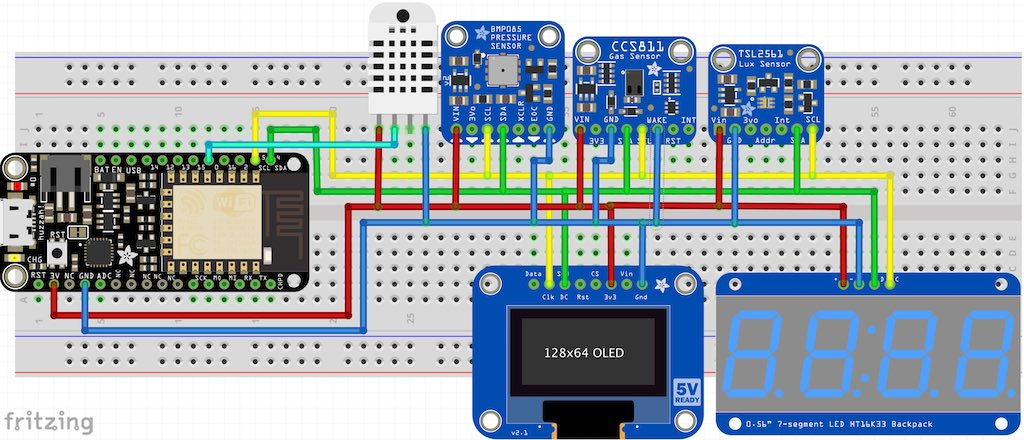
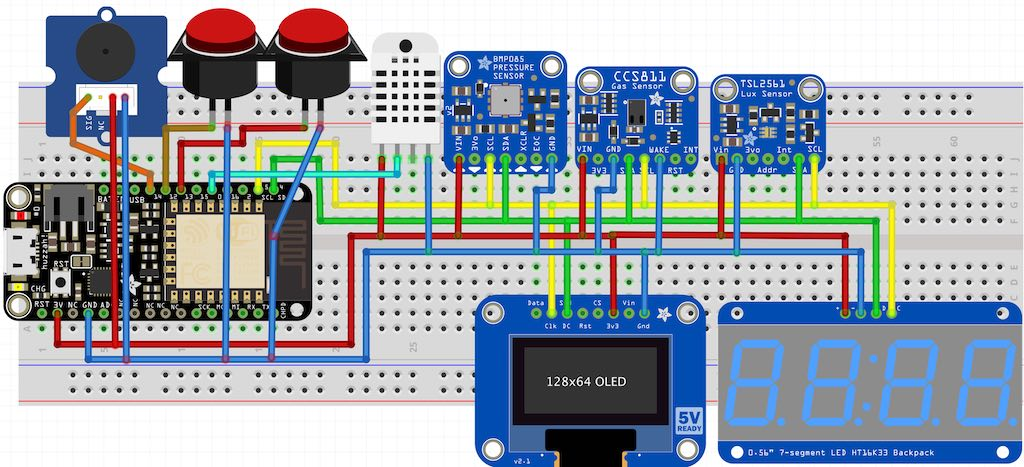
Buzzer and buttons added

diff --git a/sensorclock/src/sensorclock.cpp b/sensorclock/src/sensorclock.cpp
@@ -37,9 +37,9 @@ ustd::IlluminanceTSL2561 illumin("TSL2561-1", ustd::IlluminanceTSL2561::FilterMo
 ustd::TempHumDHT dht("DHT22-1", 0, 0, ustd::TempHumDHT::DHTType::DHT22);  // port 0 == D3
 ustd::PressTempBMP180 pressure("BMP085-1");
 #ifdef I2C_D1_D2
-ustd::Clock7Seg clock7("clock", 0x70, D5, true, "TSL2561-1/sensor/unitilluminance");
-ustd::Switch sw1("sensorclock1", D7);
-ustd::Switch sw2("sensorclock2", D6, ustd::Switch::Mode::Default, false, "clock/alarm/off");
+ustd::Clock7Seg clock7("clock", 0x70, 14, true, "TSL2561-1/sensor/unitilluminance");
+ustd::Switch sw1("sensorclock1", 13);
+ustd::Switch sw2("sensorclock2", 12, ustd::Switch::Mode::Default, false, "clock/alarm/off");
 ustd::GfxPanel display("display", ustd::GfxDrivers::DisplayType::SSD1306, 128, 64, 0x3c);
 #else
 ustd::Clock7Seg clock7("clock", 0x70, 14, true, "tsl2561/sensor/unitilluminance");

diff --git a/sensorclock/README.md b/sensorclock/README.md
@@ -6,15 +6,19 @@ This example shows a clock with 7-segment display that contains the following se
 
 - DHT22 (temperature, humidity)
 - BMP085 (temperature, pressure, can be recplaced by BMP180)
-- CCS811 (CO2, TVOC)
+- CCS811 (CO2, TVOC) uses DHT22 for temperature and humidity calibration.
 - TSL2561 (light intensity, used to control the brightness of the display)
+- Alarm-clock buzzer and two buttons (alarm off, unused)
+
+<img src="resources/sensorclock_display.jpg" width="20%" align="right">
 
 The clock uses NTP to get the time and date. The time is displayed in 24 hour format.
 All sensor readings are exported to Home Assistant via MQTT.
 
-<img src="resources/sensorclock_display.jpg" width="20%" align="right">
 
 An additional OLED display is used to show the current sensor readings.
+
+### Breadboard layout
 
 <img src="resources/sensorclock_breadboard.jpg">
 
